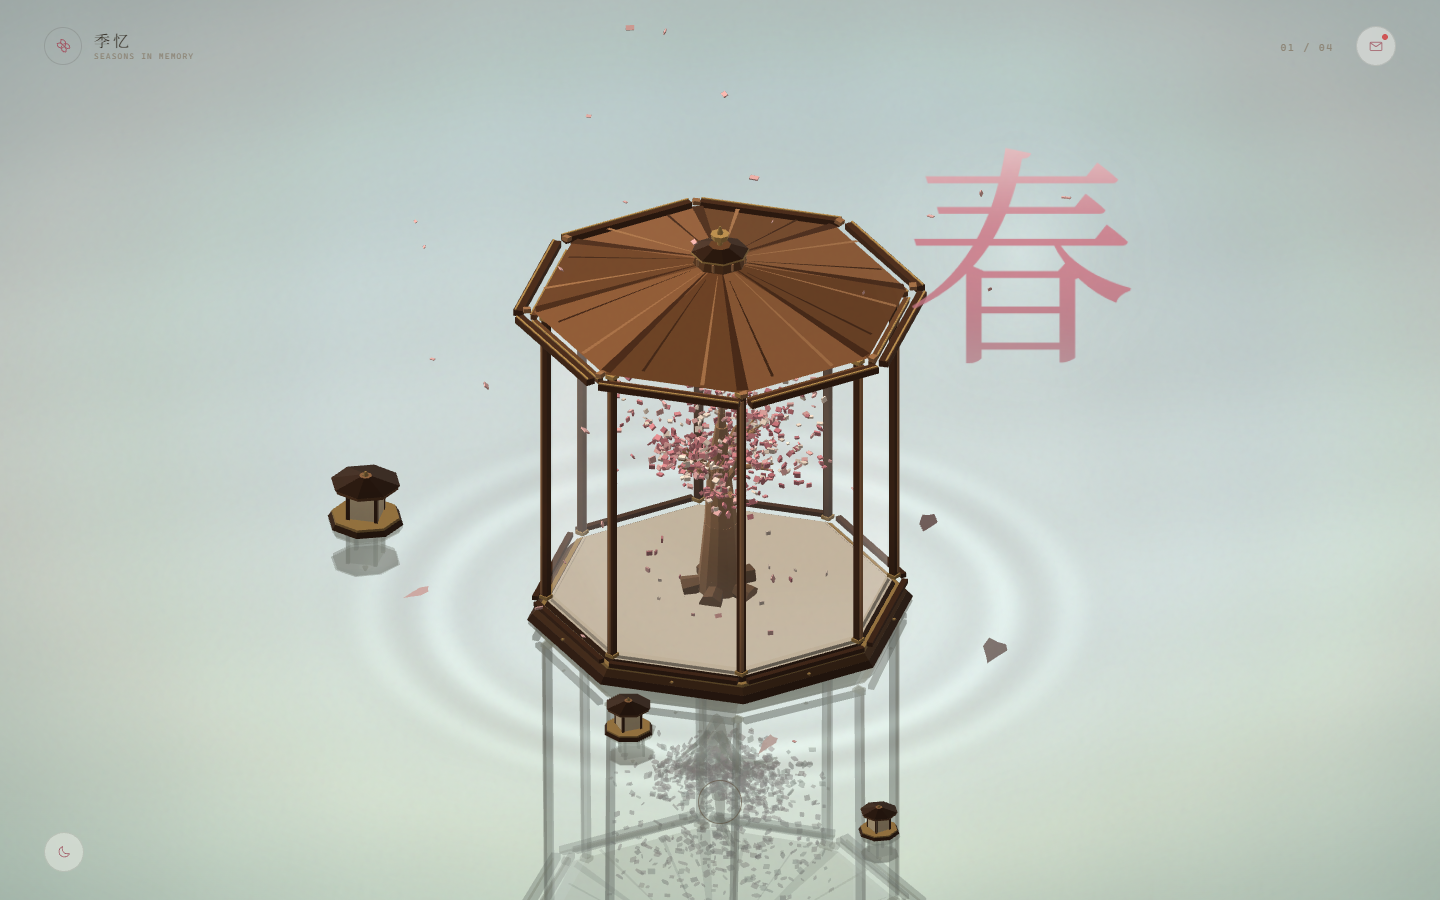
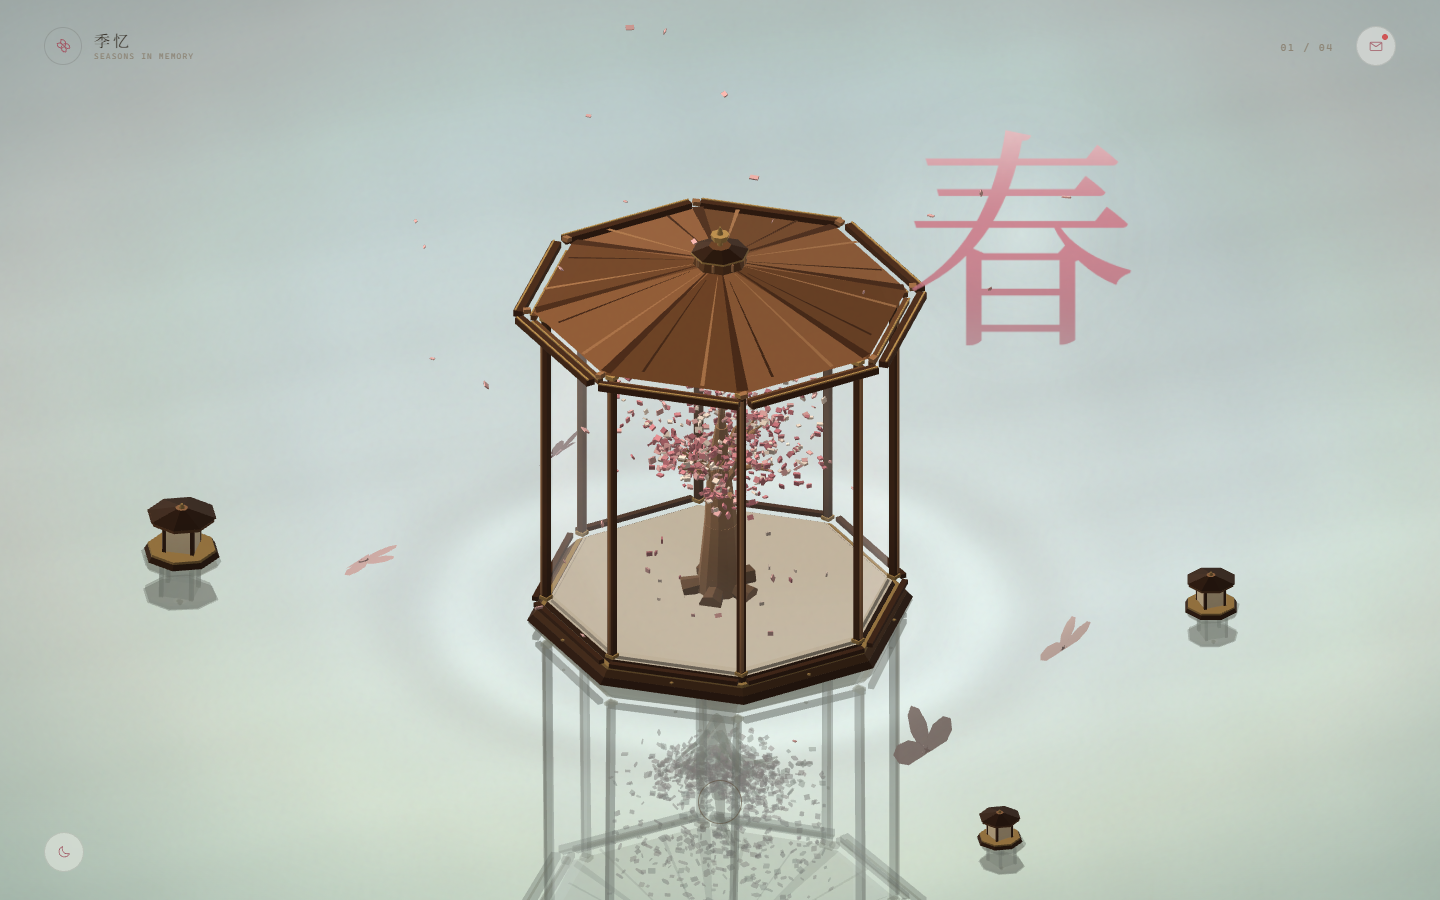
季忆 · 精简涟漪、微波、字位上移与四季水景重做

diff --git a/assets/js/world.js b/assets/js/world.js
@@ -538,24 +538,23 @@
   /* seasonal water decorations */
   function buildLotusLeaf() {
     const g = Geo();
-    const center = [0, 0.055, 0];
-    const N = 14;
-    const notch = 0.42;
+    const center = [0, 0.04, 0];
+    const N = 20;
+    const notch = 0.32;
     const cols = [hexToRgb('#7d9a68'), hexToRgb('#8aa974'), hexToRgb('#6f8b5c')];
     for (let i = 0; i < N; i++) {
       const a0 = notch + (i / N) * (TAU - notch * 2);
       const a1 = notch + ((i + 1) / N) * (TAU - notch * 2);
-      const r0 = 0.94 + 0.08 * Math.sin(i * 1.9 + 0.4);
-      const r1 = 0.94 + 0.08 * Math.sin((i + 1) * 1.9 + 0.4);
+      const r0 = 0.95 + 0.05 * Math.sin(i * 2.1 + 0.3);
+      const r1 = 0.95 + 0.05 * Math.sin((i + 1) * 2.1 + 0.3);
       const p0 = [Math.cos(a0) * r0, 0.012, Math.sin(a0) * r0];
       const p1 = [Math.cos(a1) * r1, 0.012, Math.sin(a1) * r1];
       pushTri(g, center, p0, p1, [0, 1, 0], cols[i % 3]);
     }
-    // a few veins
-    for (let k = 0; k < 7; k++) {
-      const a = notch + TAU / 13 + (k / 7) * (TAU - notch * 2 - TAU / 13);
+    for (let k = 0; k < 9; k++) {
+      const a = notch + TAU / 19 + (k / 9) * (TAU - notch * 2 - TAU / 19);
       const r = 0.82;
-      addBox(g, Math.cos(a) * r * 0.5, 0.026, Math.sin(a) * r * 0.5, 0.012, 0.004, r, hexToRgb('#5f7a4e'), Math.PI / 2 - a, 0);
+      addBox(g, Math.cos(a) * r * 0.5, 0.024, Math.sin(a) * r * 0.5, 0.012, 0.004, r, hexToRgb('#5f7a4e'), Math.PI / 2 - a, 0);
     }
     return g;
   }
@@ -581,11 +580,11 @@
   function buildIcePatch() {
     const g = Geo();
     const center = [0, 0.02, 0];
-    const N = 9;
+    const N = 16;
     const pts = [];
     for (let i = 0; i < N; i++) {
       const a = (i / N) * TAU;
-      const r = 0.55 + 0.16 * Math.sin(i * 2.7 + 0.5);
+      const r = 0.55 + 0.09 * Math.sin(i * 1.6 + 0.5);
       pts.push([Math.cos(a) * r, 0.008, Math.sin(a) * r]);
     }
     const cols = [[0.82, 0.9, 0.92], [0.9, 0.95, 0.96]];
@@ -621,6 +620,31 @@
     }
     for (let i = 0; i < N; i++) pushTri(g, center, pts[i], pts[(i + 1) % N], [0, 1, 0], cols[i % 3]);
     addBox(g, 0, 0.004, -0.2, 0.015, 0.004, 0.12, hexToRgb('#6e4a2c'), 0, 0);
+    return g;
+  }
+
+  function buildBlossom() {
+    const g = Geo();
+    const cols = [[1, 0.83, 0.88], [1, 0.9, 0.93], [1, 0.78, 0.84]];
+    for (let i = 0; i < 5; i++) {
+      const a = (i / 5) * TAU;
+      const cx = Math.cos(a) * 0.26;
+      const cz = Math.sin(a) * 0.26;
+      const pts = [];
+      for (let k = 0; k < 8; k++) {
+        const b = (k / 8) * TAU;
+        const lx = Math.cos(b) * 0.24;
+        const lz = Math.sin(b) * 0.13;
+        pts.push([
+          cx + Math.cos(a) * lx - Math.sin(a) * lz,
+          0.01,
+          cz + Math.sin(a) * lx + Math.cos(a) * lz,
+        ]);
+      }
+      const pc = [cx, 0.012, cz];
+      for (let k = 0; k < 8; k++) pushTri(g, pc, pts[k], pts[(k + 1) % 8], [0, 1, 0], cols[i % 3]);
+    }
+    addCylinder(g, [0, 0.014, 0], [0, 0.024, 0], 0.07, 0.05, 8, [0.95, 0.78, 0.4], [0.9, 0.7, 0.35]);
     return g;
   }
 
@@ -858,43 +882,39 @@
     const smallFrameMesh = renderer.makeMesh(buildSmallLanternFrame());
     const smallPaperMesh = renderer.makeMesh(buildSmallLanternPaper());
     const smalls = [
-      { xf: -0.95, zf: 0.18, s: 1.3, phase: 0.7, rot: 0.4 },
-      { xf: 0.95, zf: 0.62, s: 0.72, phase: 2.4, rot: 1.2 },
-      { xf: 0.2, zf: 0.6, s: 0.92, phase: 4.1, rot: 2.6 },
+      { xf: -1.15, zf: 0.55, s: 1.3, phase: 0.7, rot: 0.4 },
+      { xf: 1.15, zf: 0.45, s: 0.8, phase: 2.4, rot: 1.2 },
+      { xf: 0.9, zf: -0.7, s: 1.0, phase: 4.1, rot: 2.6 },
     ];
     const lotusLeafMesh = renderer.makeMesh(buildLotusLeaf());
     const mapleMesh = renderer.makeMesh(buildMapleLeaf());
     const iceMesh = renderer.makeMesh(buildIcePatch());
     const floatPetalMesh = renderer.makeMesh(buildFloatPetal());
     const floatLeafMesh = renderer.makeMesh(buildFloatLeaf());
+    const blossomMesh = renderer.makeMesh(buildBlossom());
     const decos = {
       spring: [
-        { t: 'float', x: -3.2, z: 2.0, rot: 0.4, s: 1.1, tint: [1, 0.84, 0.88] },
-        { t: 'float', x: 3.4, z: -1.2, rot: 2.0, s: 1.35, tint: [1, 0.91, 0.94] },
-        { t: 'float', x: -2.2, z: -2.7, rot: 4.2, s: 0.95, tint: [1, 0.78, 0.84] },
-        { t: 'float', x: 2.6, z: 2.4, rot: 1.3, s: 1.2, tint: [1, 0.9, 0.93] },
-        { t: 'float', x: 0.8, z: -3.2, rot: 5.0, s: 1.0, tint: [1, 0.83, 0.87] },
+        { t: 'blossom', x: -4.2, z: 1.8, rot: 0.4, s: 1.0, tint: [1, 0.86, 0.9] },
+        { t: 'blossom', x: 4.2, z: 1.2, rot: 2.0, s: 1.2, tint: [1, 0.92, 0.94] },
+        { t: 'blossom', x: -4.0, z: -1.8, rot: 4.2, s: 0.85, tint: [1, 0.8, 0.86] },
+        { t: 'blossom', x: 4.0, z: -1.8, rot: 1.3, s: 1.05, tint: [1, 0.9, 0.92] },
       ],
       summer: [
-        { t: 'leaf', x: -3.5, z: 1.4, rot: 0.2, s: 1.15 },
-        { t: 'leaf', x: 3.2, z: 2.1, rot: 1.8, s: 0.95 },
-        { t: 'leaf', x: -2.1, z: -2.8, rot: 3.2, s: 0.85 },
-        { t: 'leaf', x: -3.2, z: -1.2, rot: 4.5, s: 0.75 },
-        { t: 'flower', x: 3.5, z: -0.9, rot: 1.0, s: 1.05 },
+        { t: 'leaf', x: -4.2, z: 1.0, rot: 0.2, s: 1.35 },
+        { t: 'leaf', x: 4.4, z: 0.2, rot: 1.8, s: 1.15 },
+        { t: 'leaf', x: -4.0, z: -1.8, rot: 3.2, s: 1.0 },
+        { t: 'flower', x: 4.2, z: -0.6, rot: 1.0, s: 1.15 },
       ],
       autumn: [
-        { t: 'leaf2', x: -3.2, z: 1.8, rot: 0.3, s: 1.35, tint: [1, 0.78, 0.6] },
-        { t: 'leaf2', x: 3.0, z: -1.0, rot: 2.1, s: 1.2, tint: [1, 0.7, 0.52] },
-        { t: 'leaf2', x: -2.6, z: -2.4, rot: 4.0, s: 1.25, tint: [1, 0.9, 0.74] },
-        { t: 'leaf2', x: 3.6, z: 2.6, rot: 1.2, s: 1.05, tint: [1, 0.78, 0.58] },
-        { t: 'leaf2', x: 1.4, z: 3.4, rot: 5.3, s: 1.15, tint: [1, 0.84, 0.66] },
+        { t: 'leaf2', x: -4.2, z: 1.8, rot: 0.3, s: 1.35, tint: [1, 0.8, 0.62] },
+        { t: 'leaf2', x: 4.2, z: -1.2, rot: 2.1, s: 1.15, tint: [1, 0.72, 0.54] },
+        { t: 'leaf2', x: -3.8, z: -2.2, rot: 4.0, s: 1.2, tint: [1, 0.9, 0.74] },
+        { t: 'leaf2', x: 0.0, z: -4.0, rot: 1.2, s: 1.1, tint: [1, 0.84, 0.66] },
       ],
       winter: [
-        { t: 'ice', x: -3.6, z: 1.2, rot: 0.4, s: 1.25 },
-        { t: 'ice', x: 3.4, z: 2.0, rot: 1.6, s: 0.95 },
-        { t: 'ice', x: -2.4, z: -2.8, rot: 3.0, s: 1.05 },
-        { t: 'ice', x: 2.0, z: 3.2, rot: 4.4, s: 0.8 },
-        { t: 'ice', x: 3.6, z: -1.4, rot: 5.0, s: 0.72 },
+        { t: 'ice', x: -4.2, z: 1.2, rot: 0.4, s: 1.35 },
+        { t: 'ice', x: 4.4, z: -0.8, rot: 1.6, s: 1.1 },
+        { t: 'ice', x: -2.4, z: -3.0, rot: 3.0, s: 1.2 },
       ],
     };
 
@@ -1358,7 +1378,7 @@
       }
 
       // a few small lanterns on the water, each with a soft reflection
-      const spread = clamp(layout.aspect * 2.1 + 1.8, 3.0, 5.3);
+      const spread = clamp(layout.aspect * 2.2 + 1.9, 2.8, 5.4);
       const smallPos = (S) => {
         const sx = spread * S.xf + Math.sin(wt * 0.12 + S.phase) * 0.1;
         const sz = spread * S.zf + Math.cos(wt * 0.1 + S.phase) * 0.08;
@@ -1441,7 +1461,9 @@
           let tint = [0.8, 0.9, 0.96];
           let mix = 0.35;
           let op = w * 0.5;
-          if (d.t === 'float') {
+          if (d.t === 'blossom') {
+            mesh = blossomMesh; tint = d.tint; mix = 1; op = w * 0.95;
+          } else if (d.t === 'float') {
             mesh = floatPetalMesh; tint = d.tint; mix = 1; op = w * 0.92;
           } else if (d.t === 'leaf2') {
             mesh = floatLeafMesh; tint = d.tint; mix = 0.45; op = w * 0.94;
@@ -1493,7 +1515,7 @@
         const [sx, sz, bob, sc] = smallPos(S);
         m4.compose(matA, sx, bob, sz, S.rot + wt * 0.02, 0, 0, sc, sc, sc);
         renderer.drawMesh(smallFrameMesh, matA);
-        renderer.drawMesh(smallPaperMesh, matA, { emissive: 0.05 + night * 0.85 });
+        renderer.drawMesh(smallPaperMesh, matA, { emissive: 0.12 + night * 0.8 });
       }
 
       renderer.drawMesh(raftMesh, groupModel);

diff --git a/assets/js/gl.js b/assets/js/gl.js
@@ -254,6 +254,14 @@ void main() {
   h += a4 * sin(ph4);
   g += a4 * vec2(cos(ph4) * 2.83, -cos(ph4) * 2.27);
 
+  // fine capillary ripples
+  float pf1 = p.x * 3.9 + p.y * 2.2 + t * 1.05;
+  h += 0.09 * sin(pf1);
+  g += 0.09 * vec2(cos(pf1) * 3.9, cos(pf1) * 2.2);
+  float pf2 = p.x * 2.6 - p.y * 4.1 - t * 1.3;
+  h += 0.065 * sin(pf2);
+  g += 0.065 * vec2(cos(pf2) * 2.6, -cos(pf2) * 4.1);
+
   // slow swell
   float ph5 = p.x * 0.13 + p.y * 0.10 + t * 0.11;
   h += 0.55 * sin(ph5);
@@ -280,7 +288,7 @@ void main() {
     float width = 0.6 + age * 0.30;
     float env = exp(-pow((d - front) / width, 2.0)) * smoothstep(0.0, 0.30, age);
     float fade = exp(-age * 0.32) * (1.0 - smoothstep(3.6, 6.9, age)) * uRippleStrength;
-    float phase = (d - front) * 7.0;
+    float phase = (d - front) * 3.0;
     rippleElev = sin(phase) * env * fade;
     float slope = cos(phase) * 7.0 * env * fade;
     h += rippleElev * 0.04;
@@ -295,8 +303,8 @@ void main() {
   vec3 col = mix(uShallow, uDeep, smoothstep(0.0, 18.0, dist));
   col = mix(col, uSky, smoothstep(14.0, 50.0, dist) * 0.55);
   float shade = clamp(h * 0.10, -0.6, 0.6);
-  col *= 1.0 + shade * 0.75;
-  col += uLight * spec * 0.7;
+  col *= 1.0 + shade * 0.9;
+  col += uLight * spec * 0.8;
   col += uLight * spec2 * 0.16;
   if (age > 0.0 && age < 7.5) {
     col *= 1.0 - rippleElev * 0.20;

diff --git a/assets/js/app.js b/assets/js/app.js
@@ -105,7 +105,7 @@
     if (narrow) {
       camera.text = {
         x: 0,
-        y: 2 * halfH * 0.28,
+        y: 2 * halfH * 0.3,
         size: halfH * 0.38,
         depth: -6,
       };
@@ -115,7 +115,7 @@
       const x = Math.max(1.8, Math.min(2.4 + size * 0.5 - 0.4, maxX));
       camera.text = {
         x,
-        y: 2 * halfH * 0.22,
+        y: 2 * halfH * 0.24,
         size,
         depth: 9,
       };

diff --git a/README.md b/README.md
@@ -1,8 +1,8 @@
-# 季忆 · Seasons in Memory
+# 季忆 · Seasons in Memory
 
 一盏漂在水上的八角灯笼。转动它，树会走完春、夏、秋、冬；每到一个季节，灯笼会轻轻往下一沉、刚好碰到水面，细小的同心涟漪从浮板边荡开，再慢慢变宽、变淡、散掉。**每转满一圈**，整顶玻璃罩会带着一点漂移和倾斜抬离水面，树开成一朵立体的花；继续转动，花收回、罩子落回。
 
-水面一直有层叠的风纹、阵风斑块和流动高光；灯笼、树、三盏小水灯，以及随季节出现的荷叶/荷花、落叶、花瓣、薄冰都有倒影。夜里灯笼自己亮起来，周围有萤火，没有月亮。
+水面有层叠的风纹、细毛细波、阵风斑块和流动高光；灯笼、树、三盏小水灯，以及随季节出现的浮花、圆荷叶与粉荷、落叶、薄冰都有倒影。夜里灯笼自己亮起来，周围有萤火，没有月亮。
 
 主页面只有场景，没有左下角文字栏。季节落定后底部正中会出现空心圆点；点进去才是这一季的信页 (`letter.html?season=...`)。
 
@@ -19,11 +19,11 @@
   </tr>
   <tr>
     <td><img src="docs/winter.png" alt="冬季薄冰"></td>
-    <td><img src="docs/mobile-summer.png" alt="手机版夏季" width="48%"></td>
+    <td><img src="docs/mobile.png" alt="手机版" width="48%"></td>
   </tr>
   <tr>
     <td align="center">冬 · 薄冰与落雪</td>
-    <td align="center">手机版 · 季节元素与空心圆点</td>
+    <td align="center">手机版 · 季节字与空心圆点</td>
   </tr>
 </table>
 
@@ -75,11 +75,11 @@ npx serve .
 
 - **灯笼**：八边形灯身，深色木柱、木圈、高透明度玻璃；屋顶有八条脊线、木纹、外挑檐口、黄铜包边、檐角小翘头、木鼓座和黄铜顶珠。灯身比之前放大约 15%，树冠四周留有余量，约 90% 以上的树可见。
 - **摘盖**：每圈开花时，玻璃罩（屋顶 + 木柱 + 玻璃）在抬升的同时轻微向右后方漂移并旋转，配合同一条平滑曲线，摘盖过程更连贯。
-- **水面**：四层不同方向/速度的风波 + 慢涌 + 噪声阵风，形成大小不一的斑块和高光；微波动画持续，不受季节定格冻结。
-- **写实涟漪**：下沉时水面出现**细同心环**——它们只扰动水面的法线/明暗与局部高光，不是叠加的白色光圈；从浮板边向外扩散，先变宽再减速，在约 7 秒内平滑淡出。
-- **季节水景**：春有浮花瓣，夏有荷叶与粉色荷花，秋有大小/颜色不同的落叶，冬有薄冰；随当前季节交叉淡入淡出。元素大小、旋转、颜色各不相同，不是同一套复制；荷花有倒影。
+- **水面**：四层不同方向/速度的风波 + 两层细毛细波 + 慢涌 + 噪声阵风，形成大小不一的斑块和高光；微波动画持续，不受季节定格冻结。
+- **写实涟漪**：下沉时水面出现**细同心环**——它们只扰动水面的法线/明暗与局部高光，不是叠加的白色光圈；圈数收敛到 2–3 圈，从浮板边向外扩散，先变宽再减速，在约 7 秒内平滑淡出。
+- **季节水景**：春有 4 朵浮花；夏有 3 片圆荷叶 + 1 朵粉荷；秋有 4 片大小/颜色不同的落叶；冬有 3 块软薄冰。随当前季节交叉淡入淡出；元素大小、旋转、颜色各不相同，不是同一套复制；荷花有倒影。
 - **花**：**每转满一圈开一次**。没有大「花」字；树干淡出，花从浮板上长出细绿色花茎和四片叶子；花瓣比之前略小。继续转动，花收回、树恢复。
-- **季节字**：从亭子内部向上升约 2.2 单位，透明度 0→0.98；位置整体下移；白天用干净的深色季节渐变 + 柔和光晕，避免和浅色背景混在一起；阴影压到 0.035。
+- **季节字**：从亭子内部向上升约 2.2 单位，透明度 0→0.98；位置上移到 0.24 / 0.30（桌面 / 手机）；白天用干净的深色季节渐变 + 柔和光晕，避免和浅色背景混在一起；阴影压到 0.035。
 - **夜间**：没有左上角光源；灯笼内部变亮，成为唯一主光；水灯、荷花、萤火和少量星点一起发光。
 - **字体**：页面中文（`季忆`、`春夏秋冬`、`小礼物`、`左右旋转`，以及礼物弹层和信页文字）使用项目内的 Jiyi Serif（Noto Serif SC 子集，250 字符，约 84 kB），桌面与手机同一份字形。
 
@@ -107,7 +107,7 @@ four-seasons/
 - **三盏水灯**：`world.js` 的 `smalls` 数组（`s` 是大小，`xf/zf` 是位置）。
 - **摘盖**：`world.js` 的 `coverAmt` / `lift` 和 `m4.compose(matA, coverAmt * 0.55, lift, ... )`。
 - **水面/涟漪**：`gl.js` 的 `WATER_FS`（层叠波、阵风噪声、`rippleElev`、淡出区间）。
-- **季节字**：`app.js` 的 `camera.text`（高度 0.22 桌面 / 0.28 手机）与 `world.js` 的 `rise` / 颜色/光晕。
+- **季节字**：`app.js` 的 `camera.text`（高度 0.24 桌面 / 0.30 手机）与 `world.js` 的 `rise` / 颜色/光晕。
 - **字体**：`assets/fonts/README.txt`。
 - **信页**：`letter.html` 接收 `?season=...`。
 
@@ -123,10 +123,10 @@ four-seasons/
 
 ## 已验证
 
-- 涟漪：静帧实测 `rippleAge` 为 0.60 / 2.85 / 5.25 秒，水面是细同心环，没有白色叠加光圈；7 秒左右平滑淡出。
-- 季节水景：春花瓣、夏 4 片荷叶 + 1 朵粉荷、秋 5 片不同大小的落叶、冬 5 块薄冰；转动时在相邻季节间交叉淡入淡出；荷花有倒影。
-- 字：桌面/手机都下移；深色渐变 + 光晕，和浅背景区分；上升与透明度过渡保留。
-- 水面灯：三盏分布在左、中、右，大小 1.3 / 0.92 / 0.72，带轻微呼吸大小和浮动。
+- 涟漪：静帧实测 `rippleAge` 为 0.60 / 2.85 / 5.25 秒，水面是2–3 圈细同心环，没有白色叠加光圈；7 秒左右平滑淡出。
+- 季节水景：春 4 朵浮花、夏 3 片圆荷叶 + 1 朵粉荷、秋 4 片不同颜色落叶、冬 3 块软薄冰；转动时在相邻季节间交叉淡入淡出；荷花有倒影。
+- 字：桌面 0.24 / 手机 0.30；深色渐变 + 光晕，和浅背景区分；上升与透明度过渡保留。
+- 水面灯：三盏分布在左、右、右下，大小 1.3 / 0.8 / 1.0，带轻微呼吸大小和浮动。
 - 开花：每圈一次，罩子带漂移/倾斜抬离；圆点变空心花；礼物红点出现。
 - 水面：四层风纹 + 噪声阵风 + 高光，持续动画。
 - 手机 390×844：圆点、提示、礼物、昼夜按钮不重叠；信卡隐藏。
@@ -137,3 +137,4 @@ four-seasons/
 - 页面无网络请求；`docs/` 仅是预览图。
 - 字体：Noto Serif SC 子集，SIL Open Font License 1.1。
 - 支持 `prefers-reduced-motion`。
+
